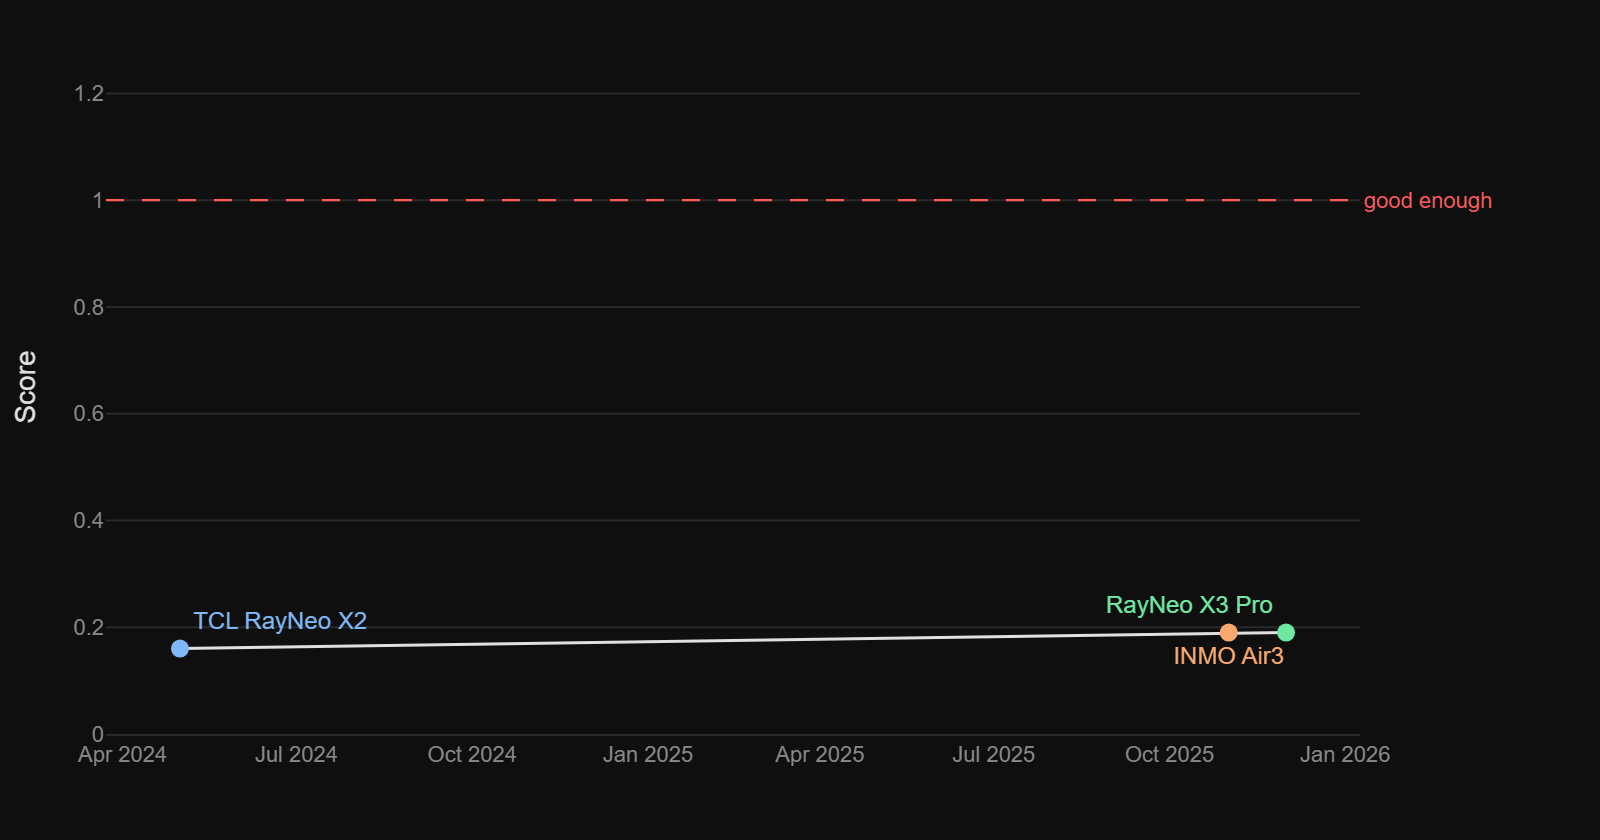
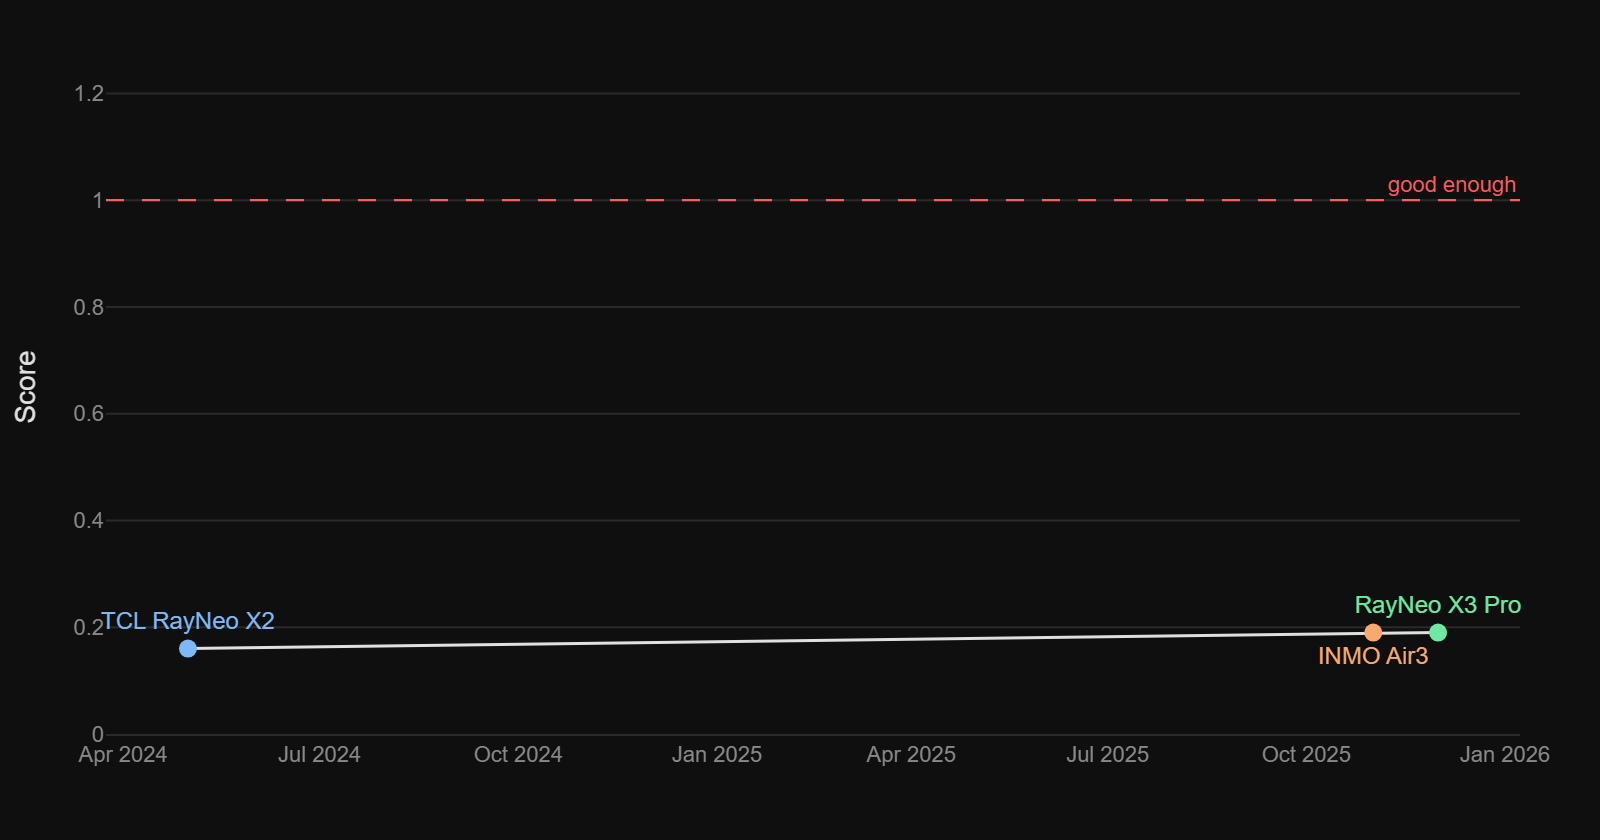
Greatly improve look of graph

diff --git a/chart/chart.py b/chart/chart.py
@@ -20,7 +20,7 @@ MUTED = "#888"
 RED   = "#ff5c5c"
 
 COLORS = ["#7eb8f7", "#f7a96e", "#6ee8a2"]
-text_positions = ["top right", "bottom center", "top left"]
+text_positions = ["top center", "bottom center", "top center"]
 
 fig.add_trace(go.Scatter(
     x=dates,
@@ -40,6 +40,7 @@ for i, device in enumerate(devices):
         textfont=dict(family="Inter, sans-serif", size=12, color=COLORS[i]),
         marker=dict(color=COLORS[i], size=9),
         hovertemplate=f"<b>{device['name']}</b><br>Score: {device['score']:.2f}<extra></extra>",
+        cliponaxis=False,
         showlegend=False,
     ))
 
@@ -47,7 +48,7 @@ fig.add_hline(
     y=1.0,
     line=dict(color=RED, width=1.2, dash="dash"),
     annotation_text="good enough",
-    annotation_position="right",
+    annotation_position="top right",
     annotation_font=dict(color=RED, size=11),
 )
 
@@ -73,7 +74,7 @@ fig.update_layout(
         tickfont=dict(size=11, color=MUTED),
         zeroline=False,
     ),
-    margin=dict(l=50, r=120, t=20, b=50),
+    margin=dict(l=50, r=40, t=20, b=50),
     width=800,
     height=420,
     showlegend=False,
